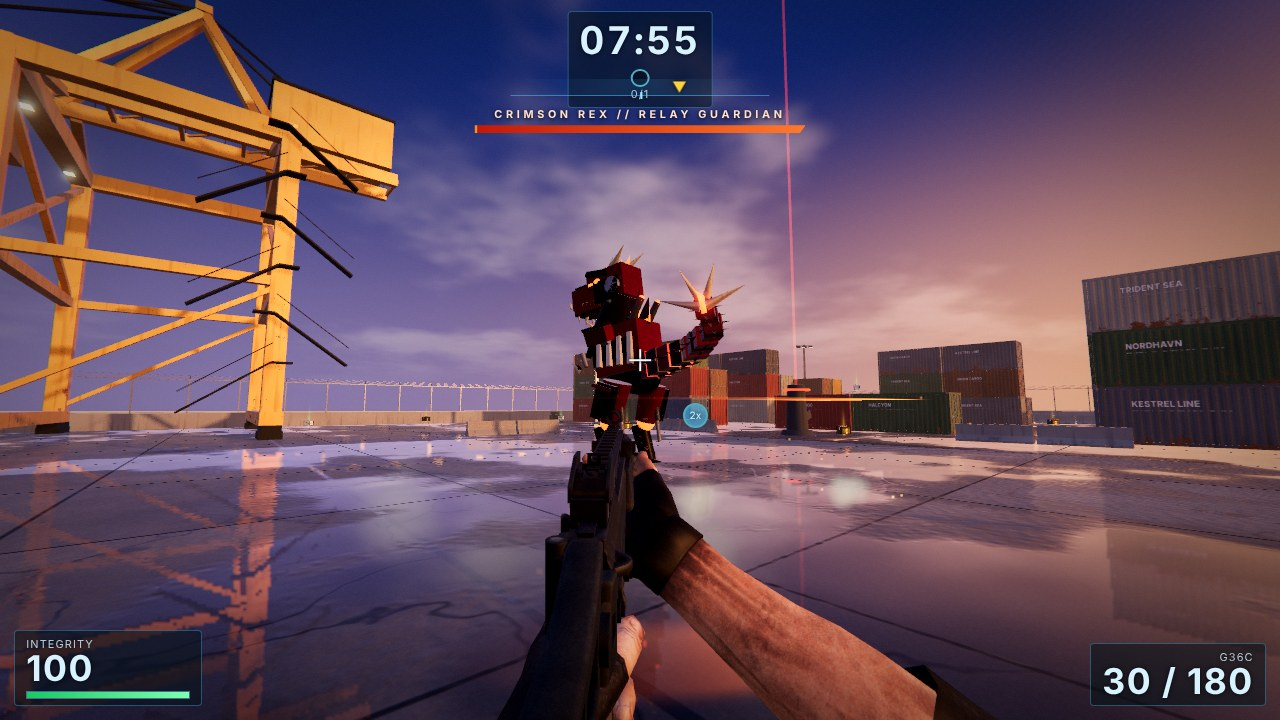
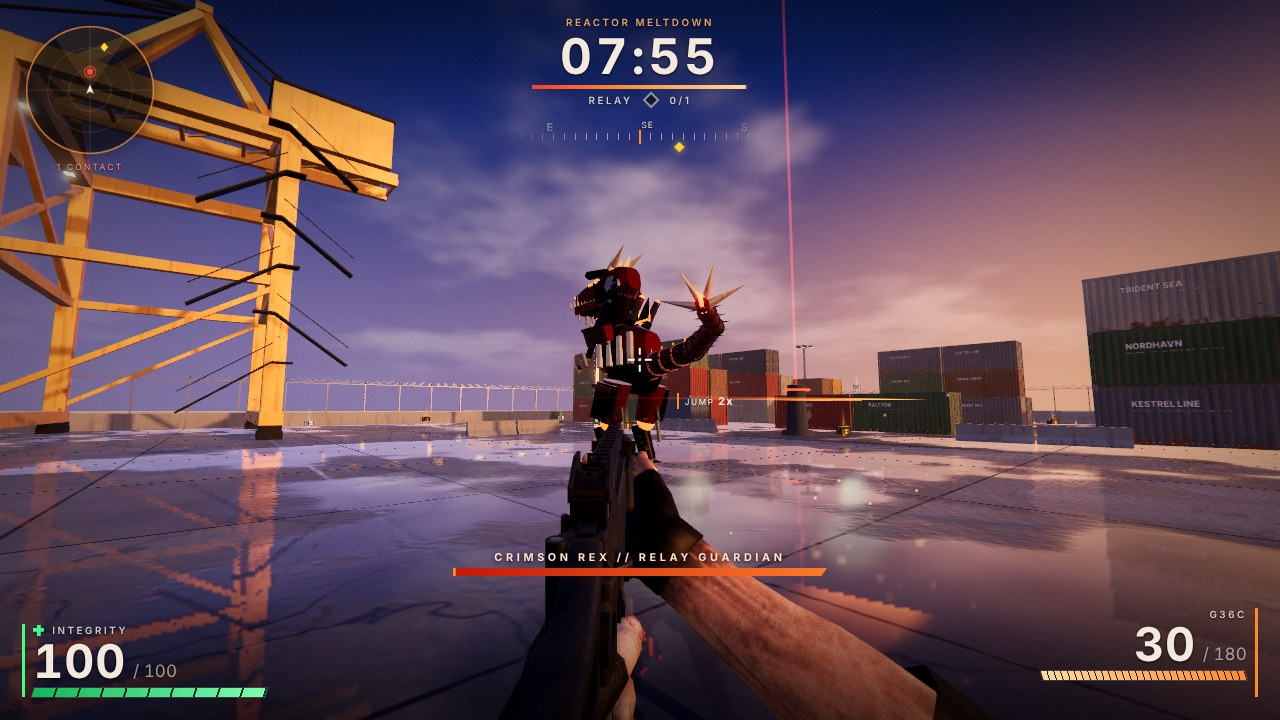
Crimson Rex: lofted body shells instead of boxes; docs and screenshots
Claude-Session: https://claude.ai/code/session_019Cd4QJJQAj7MtqAtZQe3gZ

diff --git a/src/dinosaur/DinoModel.ts b/src/dinosaur/DinoModel.ts
@@ -1,5 +1,6 @@
 import {
   Box3,
+  BufferAttribute,
   BoxGeometry,
   BufferGeometry,
   Color,
@@ -83,6 +84,62 @@ function part(parent: Object3D, geo: BufferGeometry, tag: Tag, x: number, y: num
   return mesh;
 }
 
+interface Section {
+  z: number;
+  /** Centre height, width and height of the cross-section. */
+  y: number;
+  w: number;
+  h: number;
+}
+
+/**
+ * Smooth skin lofted through cross-sections along Z (ascending). Each section is a superellipse
+ * (`power` 2 = ellipse, higher = squarer with rounded corners), so bodies, skulls and tails read as
+ * shaped armour shells instead of boxes. Ends are closed with flat caps.
+ */
+function loft(sections: readonly Section[], sides = 16, power = 2.8): BufferGeometry {
+  const pos: number[] = [];
+  const idx: number[] = [];
+  const e = 2 / power;
+  const ring = (sec: Section): number => {
+    const start = pos.length / 3;
+    for (let j = 0; j < sides; j++) {
+      const a = (j / sides) * Math.PI * 2;
+      const c = Math.cos(a);
+      const sn = Math.sin(a);
+      pos.push((sec.w / 2) * Math.sign(c) * Math.abs(c) ** e, sec.y + (sec.h / 2) * Math.sign(sn) * Math.abs(sn) ** e, sec.z);
+    }
+    return start;
+  };
+  const starts = sections.map(ring);
+  for (let k = 0; k < sections.length - 1; k++) {
+    const a = starts[k] as number;
+    const b = starts[k + 1] as number;
+    for (let j = 0; j < sides; j++) {
+      const j1 = (j + 1) % sides;
+      idx.push(a + j, a + j1, b + j, a + j1, b + j1, b + j);
+    }
+  }
+  // caps on their own vertices so the rim stays a hard edge
+  const cap = (sec: Section, front: boolean): void => {
+    const start = ring(sec);
+    const centre = pos.length / 3;
+    pos.push(0, sec.y, sec.z);
+    for (let j = 0; j < sides; j++) {
+      const j1 = (j + 1) % sides;
+      if (front) idx.push(centre, start + j, start + j1);
+      else idx.push(centre, start + j1, start + j);
+    }
+  };
+  cap(sections[0] as Section, false);
+  cap(sections[sections.length - 1] as Section, true);
+  const geo = new BufferGeometry();
+  geo.setAttribute('position', new BufferAttribute(new Float32Array(pos), 3));
+  geo.setIndex(idx);
+  geo.computeVertexNormals();
+  return geo;
+}
+
 /** Flat blade: a 4-sided cone squashed sideways. */
 function blade(radius: number, height: number, thickness = 0.28): BufferGeometry {
   const g = new ConeGeometry(radius, height, 4);
@@ -111,12 +168,28 @@ function buildReference(): { root: Group; throat: Mesh; jawGroup: Group } {
   const torso = new Group();
   torso.position.set(0, 1.2, 0);
   rig.add(torso);
-  const chest = tagged(new BoxGeometry(0.9, 1.1, 1.3), 'red');
-  chest.position.set(0, 0.5, 0.1);
+  // barrel chest: one lofted shell, a darker armour belt around it and a keel plate
+  const chest = tagged(
+    loft([
+      { z: -0.62, y: 0.42, w: 0.62, h: 0.7 },
+      { z: -0.3, y: 0.48, w: 0.88, h: 1.02 },
+      { z: 0.15, y: 0.52, w: 0.96, h: 1.16 },
+      { z: 0.55, y: 0.5, w: 0.9, h: 1.04 },
+      { z: 0.8, y: 0.46, w: 0.66, h: 0.74 },
+    ]),
+    'red',
+  );
   torso.add(chest);
-  const plate = tagged(new BoxGeometry(0.95, 0.5, 1.1), 'dark');
-  plate.position.set(0, 0.45, 0.25);
+  const plate = tagged(
+    loft([
+      { z: -0.05, y: 0.5, w: 1.0, h: 1.18 },
+      { z: 0.25, y: 0.52, w: 1.02, h: 1.22 },
+      { z: 0.5, y: 0.5, w: 0.97, h: 1.12 },
+    ]),
+    'dark',
+  );
   torso.add(plate);
+  part(torso, loft([{ z: -0.45, y: -0.06, w: 0.3, h: 0.16 }, { z: 0.2, y: -0.1, w: 0.42, h: 0.2 }, { z: 0.72, y: -0.02, w: 0.3, h: 0.16 }], 10, 2), 'steel', 0, 0, 0);
   const coreGeo = new CylinderGeometry(0.22, 0.22, 0.15, 20);
   coreGeo.rotateX(Math.PI / 2);
   const core = tagged(coreGeo, 'glow');
@@ -166,12 +239,20 @@ function buildReference(): { root: Group; throat: Mesh; jawGroup: Group } {
   const head = new Group();
   head.position.set(0, 0.8, -0.25);
   neck.add(head);
-  const skull = tagged(new BoxGeometry(0.75, 0.75, 1.1), 'red');
-  skull.position.set(0, 0.2, 0.15);
+  // skull and snout as one tapering shell (wide braincase, narrow muzzle with a raised nose)
+  const skull = tagged(
+    loft([
+      { z: -0.45, y: 0.24, w: 0.5, h: 0.5 },
+      { z: -0.2, y: 0.22, w: 0.76, h: 0.74 },
+      { z: 0.3, y: 0.2, w: 0.78, h: 0.72 },
+      { z: 0.62, y: 0.14, w: 0.68, h: 0.56 },
+      { z: 1.0, y: 0.1, w: 0.6, h: 0.48 },
+      { z: 1.22, y: 0.1, w: 0.52, h: 0.44 },
+      { z: 1.3, y: 0.08, w: 0.38, h: 0.32 },
+    ]),
+    'red',
+  );
   head.add(skull);
-  const snout = tagged(new BoxGeometry(0.65, 0.5, 0.85), 'red');
-  snout.position.set(0, 0.1, 0.85);
-  head.add(snout);
   for (const x of [-0.38, 0.38]) {
     const eye = tagged(new SphereGeometry(0.09, 10, 10), 'glow');
     eye.position.set(x, 0.3, 0.35);
@@ -194,17 +275,22 @@ function buildReference(): { root: Group; throat: Mesh; jawGroup: Group } {
     part(head, new ConeGeometry(0.06, 0.34, 5), 'bone', sx * 0.24, -0.3, 1.18, Math.PI, 0, 0);
     part(head, new CylinderGeometry(0.035, 0.035, 0.5, 8), 'light', sx * 0.4, -0.12, 0.2, 0.9, 0, 0);
   }
-  part(head, new BoxGeometry(0.5, 0.08, 0.72), 'dark', 0, 0.39, 0.86);
-  // bevelled skull and snout: turned boxes break the cube silhouette
-  part(head, new BoxGeometry(0.58, 0.58, 1.0), 'red', 0, 0.2, 0.15, 0, 0, Math.PI / 4);
-  part(head, new BoxGeometry(0.44, 0.44, 0.8), 'dark', 0, 0.12, 0.86, 0, 0, Math.PI / 4);
+  // nasal armour following the muzzle
+  part(head, loft([{ z: 0.5, y: 0.4, w: 0.46, h: 0.14 }, { z: 0.9, y: 0.34, w: 0.44, h: 0.14 }, { z: 1.26, y: 0.28, w: 0.3, h: 0.1 }], 10, 2.4), 'dark', 0, 0, 0);
   for (let i = 0; i < 4; i++) part(head, blade(0.1, 0.34 - i * 0.03, 0.4), 'glow', 0, 0.68, -0.32 + i * 0.24, -0.55, 0, 0);
   const jawGroup = new Group();
   jawGroup.position.set(0, -0.05, 0.5);
   jawGroup.userData.pivot = 'jaw';
   head.add(jawGroup);
-  const jaw = tagged(new BoxGeometry(0.6, 0.3, 0.9), 'dark');
-  jaw.position.set(0, -0.1, 0.3);
+  const jaw = tagged(
+    loft([
+      { z: -0.2, y: -0.08, w: 0.64, h: 0.34 },
+      { z: 0.3, y: -0.1, w: 0.62, h: 0.3 },
+      { z: 0.68, y: -0.1, w: 0.5, h: 0.24 },
+      { z: 0.8, y: -0.09, w: 0.34, h: 0.16 },
+    ]),
+    'dark',
+  );
   jawGroup.add(jaw);
   for (let i = 0; i < 5; i++) {
     const z = 0.45 + i * 0.12;
@@ -266,8 +352,10 @@ function buildReference(): { root: Group; throat: Mesh; jawGroup: Group } {
     shin.position.set(0, -1.35, 0.15);
     shin.rotation.x = Math.PI / 10;
     leg.add(shin);
-    const foot = tagged(new BoxGeometry(0.35, 0.3, 0.65), 'light');
-    foot.position.set(0, -1.8, 0.25);
+    const foot = tagged(
+      loft([{ z: -0.14, y: -1.82, w: 0.3, h: 0.24 }, { z: 0.2, y: -1.8, w: 0.42, h: 0.32 }, { z: 0.6, y: -1.84, w: 0.4, h: 0.22 }], 12, 2.6),
+      'light',
+    );
     leg.add(foot);
     for (let i = 0; i < 3; i++) {
       const toe = tagged(new ConeGeometry(0.085, 0.44, 6), 'claw');
@@ -295,9 +383,22 @@ function buildReference(): { root: Group; throat: Mesh; jawGroup: Group } {
     if (i === 4) seg.userData.pivot = 'tailB';
     if (i === 8) seg.userData.pivot = 'tailC';
     const scale = Math.max(0.4, 1 - i * 0.07);
-    const box = tagged(new BoxGeometry(0.6 * scale, 0.55 * scale, 0.5 * scale), i % 2 === 0 ? 'red' : 'dark');
-    box.position.set(0, 0.1 * scale, -0.2);
+    // continuous tapering tail: each link runs into the size of the next one, with a dark band at the joint
+    const next = i === 10 ? scale * 0.7 : Math.max(0.4, 1 - (i + 1) * 0.07);
+    const box = tagged(
+      loft(
+        [
+          { z: -0.5, y: 0.1 * next, w: 0.6 * next, h: 0.55 * next },
+          { z: -0.2, y: 0.1 * scale, w: 0.6 * (scale + next) * 0.5, h: 0.56 * (scale + next) * 0.5 },
+          { z: 0.06, y: 0.1 * scale, w: 0.6 * scale, h: 0.55 * scale },
+        ],
+        12,
+        2.4,
+      ),
+      'red',
+    );
     seg.add(box);
+    part(seg, loft([{ z: -0.03, y: 0.1 * scale, w: 0.66 * scale, h: 0.6 * scale }, { z: 0.07, y: 0.1 * scale, w: 0.66 * scale, h: 0.6 * scale }], 12, 2.4), 'dark', 0, 0, 0);
     if (i < 8) {
       const spine = tagged(new ConeGeometry(0.08 * scale, 0.25 * scale, 4), 'glow');
       spine.position.set(0, 0.35 * scale, -0.2);
@@ -305,9 +406,7 @@ function buildReference(): { root: Group; throat: Mesh; jawGroup: Group } {
       seg.add(spine);
     }
     for (const sx of [-1, 1]) part(seg, blade(0.09 * scale, 0.42 * scale, 0.4), 'dark', sx * 0.38 * scale, 0.1 * scale, -0.2, 0, 0, sx * -Math.PI / 2);
-    // second box turned 45 degrees: octagonal armoured section instead of a plain cube, plus a joint ring
-    part(seg, new BoxGeometry(0.46 * scale, 0.46 * scale, 0.42 * scale), i % 2 === 0 ? 'dark' : 'red', 0, 0.1 * scale, -0.2, 0, 0, Math.PI / 4);
-    part(seg, new CylinderGeometry(0.2 * scale, 0.2 * scale, 0.1, 10), 'steel', 0, 0.1 * scale, 0.04, Math.PI / 2, 0, 0);
+
     if (i === 10) {
       // tail club: four bone spikes and a glowing blade
       for (const sx of [-1, 1]) {

diff --git a/CLAUDE.md b/CLAUDE.md
@@ -26,7 +26,7 @@ npm run smoke / npm run e2e -- T-XX    # browser checks, see policy below
 - Everything is procedural (no CDN, no network at runtime) except the G36C GLB; `docs/reference-models/*.html` are visual references only.
 
 ## Status (update this block when it changes)
-- Latest: **sunset rework, Crimson Rex, area streaming** (last section of `docs/DEVIATIONS.md`): one 72 x 86 m quay at sunset, no rain, the sun is the only real light; 1 tower guarded by the dinosaur semi-boss (`src/dinosaur`), roster of 18 robots streamed by area (`src/enemies/areaSpawner.ts`, 10 alive at most), half-size boss; upgraded robots, pickups, VFX (camera shake) and a cinematic menu. Verified by `tsc`, 416 unit tests, build and scripted screenshots on the medium preset (no console errors). **Not verified**: a full run, balance, the Rex fight beyond forced skills, frame rate on a real GPU, whether the owner's black-screen report is fixed (a NaN guard was added before the bloom).
+- Latest: **sunset rework, Crimson Rex, area streaming** (last section of `docs/DEVIATIONS.md`): one 72 x 86 m quay at sunset, no rain, the sun is the only real light; 1 tower guarded by the dinosaur semi-boss (`src/dinosaur`), roster of 18 robots streamed by area (`src/enemies/areaSpawner.ts`, 10 alive at most), half-size boss; upgraded robots, pickups, VFX (camera shake), a cinematic menu and a redesigned HUD with a radar. Verified by `tsc`, 416 unit tests, build and scripted screenshots on the medium preset (no console errors). **Not verified**: a full run, balance, the Rex fight beyond forced skills, frame rate on a real GPU, whether the owner's black-screen report is fixed (a NaN guard was added before the bloom).
 - **All `tests/e2e/*.mjs` are stale** (old coordinates, four towers, grapple): rewrite them before running e2e. `scripts/smoke.mjs` was not run after the reworks either.
 - Docs that describe older versions: `docs/PLAN.md` (module table), `docs/PLAYTEST.md`, `docs/PERFORMANCE.md`, tickets and `specs/`.
 - Known limits: robots and the Rex are primitive-built and read as low-poly; no ambient audio; bundle ~5.3 MB (Rapier 82%); in-game Restart reloads the page.

diff --git a/docs/DEVIATIONS.md b/docs/DEVIATIONS.md
@@ -64,3 +64,5 @@ Owner feedback from a real machine: lag and a black screen when turning; asked f
 - **Pickups, VFX, menu**: modelled ammo case and trauma kit with light columns; shrapnel, dust skirt, embers, muzzle smoke, scorch marks, smouldering wrecks and camera shake (`VFX.shake`); cinematic main menu with a crane shot of the level.
 - **Measured** (software GL, medium): about 100 to 180 draw calls and 0.45 to 0.56 M triangles per frame. No GPU frame-rate measurement exists.
 - **Not verified**: a full run, balance with 18 robots and the Rex, the Rex inside the court next to containers, frame rate on a real GPU.
+- **HUD** (, ): segmented HP bar with a lagging damage ghost, magazine bar with reload progress, countdown with a remaining-time bar, heading tape, gap crosshair, X hit marker, lower-third toasts; a **radar** in the top-left corner (42 m, up = view direction) shows robots, the relay tower, the Rex (read through ) and the boss spawn point.
+- **Rex model**: chest, skull, jaw, feet and tail are lofted superellipse shells ( in ) instead of boxes; the hit volumes are unchanged.

diff --git a/README.md b/README.md
@@ -59,7 +59,7 @@ simulation, procedural audio and procedurally built models. There is no backend 
 <table>
   <tr>
     <td width="50%"><img src="docs/media/sunset-menu.jpg" alt="Main menu over a crane shot of the quay"><br><sub>Main menu: live crane shot of the level, mission briefing</sub></td>
-    <td width="50%"><img src="docs/media/sunset-yard.jpg" alt="Lane through the container yard with a robot and the gantry crane"><br><sub>Container yard: liveries, corrugated steel, reflections</sub></td>
+    <td width="50%"><img src="docs/media/sunset-yard.jpg" alt="Lane through the container yard with a robot and the gantry crane"><br><sub>Container yard with the HUD: radar, countdown, heading tape, health and magazine bars</sub></td>
   </tr>
   <tr>
     <td width="50%"><img src="docs/media/sunset-court.jpg" alt="Relay court at sunset with an army mech"><br><sub>Relay court, looking into the sun</sub></td>
